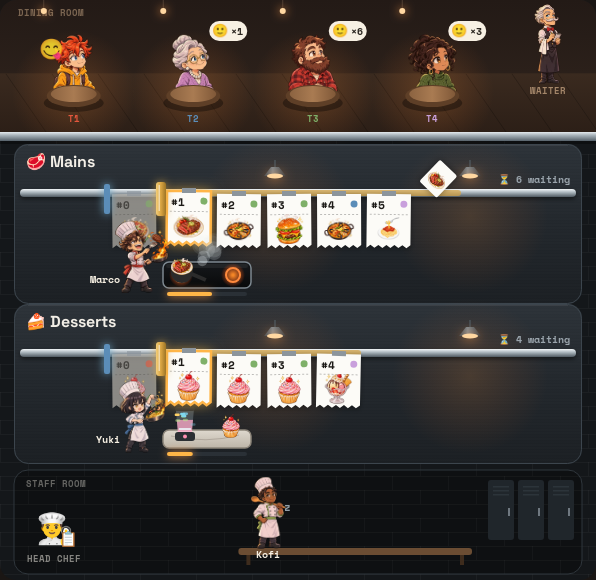
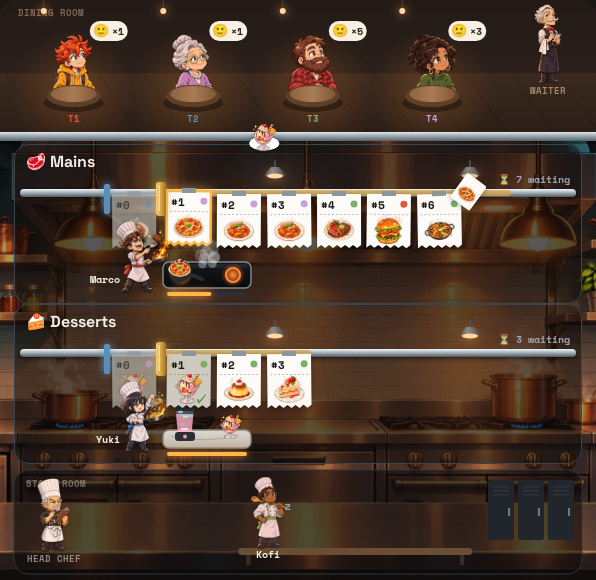
Painted anime kitchen behind the stations
cast/bg/kitchen.webp is drawn (cover-fit, lightly tinted) behind the
stations and staff room, whose panels become smoky glass so the copper
pots and tiles show through; the drawn pendant lamps step aside. Falls
back to the flat look if the image is missing. The first dining-room
image is kept in art/cast-src while a one-chair version is made.

diff --git a/index.html b/index.html
@@ -1623,7 +1623,20 @@ function tiles(base, line) {
   t.moveTo(.5, 0); t.lineTo(.5, 14); t.moveTo(28.5, 14); t.lineTo(28.5, 28); t.stroke();
   return ctx.createPattern(c, 'repeat');
 }
+// painted anime backgrounds (cast/bg/*.webp); the flat drawn look stays as a fallback until they load
+const BG = {};
+for (const n of ['kitchen', 'dining']) { const im = new Image(); im.onload = () => { BG[n] = im }; im.src = `cast/bg/${n}.webp` }
+function drawCover(im, x, y, w, h, ay = .5) {                // like CSS object-fit: cover, anchored at ay vertically
+  const k = Math.max(w / im.naturalWidth, h / im.naturalHeight), iw = im.naturalWidth * k, ih = im.naturalHeight * k;
+  ctx.save(); ctx.beginPath(); ctx.rect(x, y, w, h); ctx.clip();
+  ctx.drawImage(im, x + (w - iw) / 2, y + (h - ih) * ay, iw, ih); ctx.restore();
+}
 function steel(x, y, w, h, r, edge) {
+  if (BG.kitchen) {                                          // over the painted kitchen: a smoky glass panel instead of brushed steel
+    ctx.fillStyle = 'rgba(12,10,9,.52)'; rr(x, y, w, h, r); ctx.fill();
+    ctx.strokeStyle = edge; ctx.lineWidth = 1; rr(x + .5, y + .5, w - 1, h - 1, r); ctx.stroke();
+    return;
+  }
   const g = ctx.createLinearGradient(0, y, 0, y + h);
   g.addColorStop(0, '#2C3238'); g.addColorStop(.5, '#22272C'); g.addColorStop(1, '#1B1F23');
   ctx.fillStyle = g; rr(x, y, w, h, r); ctx.fill();
@@ -1658,6 +1671,10 @@ function draw(rdt) {
   PAT.wall ||= tiles('#14171A', 'rgba(255,255,255,.035)');
   PAT.back ||= tiles('#0E1012', 'rgba(255,255,255,.03)');
   ctx.fillStyle = PAT.wall; rr(0, 0, G.W, G.H, 16); ctx.fill();
+  if (BG.kitchen) {
+    drawCover(BG.kitchen, 0, G.dining.h, G.W, G.H - G.dining.h, .35);
+    ctx.fillStyle = 'rgba(14,11,9,.35)'; ctx.fillRect(0, G.dining.h, G.W, G.H - G.dining.h);
+  }
   // dining room: dark wall, warm floor, a pendant lamp over every table
   let gr = ctx.createLinearGradient(0, 0, 0, G.dining.h);
   gr.addColorStop(0, '#231A16'); gr.addColorStop(.55, '#2B201A'); gr.addColorStop(.56, '#3A2A1F'); gr.addColorStop(1, '#2C1F17');
@@ -1724,7 +1741,7 @@ function draw(rdt) {
     txt(`${st.e} ${st.name}`, G.pad + 12, g.top + 23, `700 16px ${SANS}`, '#F2EEE6');
     g.rails.forEach(y => {
       const x0 = G.clipX + G.TW + 70, x1 = G.railR - 100, n = Math.max(1, Math.floor((x1 - x0) / 150));
-      for (let i = 0; i <= n && x1 > x0; i++) { const lx = x0 + (x1 - x0) * i / n; glowAt(lx, y + 34, 78, .17); lamp(lx, y - 8) }
+      if (!BG.kitchen) for (let i = 0; i <= n && x1 > x0; i++) { const lx = x0 + (x1 - x0) * i / n; glowAt(lx, y + 34, 78, .17); lamp(lx, y - 8) }
     });
     if (X) {
       ctx.font = `700 15px ${SANS}`;
@@ -1748,7 +1765,7 @@ function draw(rdt) {
 
   if (G.staff) {
     const s = G.staff;
-    ctx.fillStyle = PAT.back; ctx.strokeStyle = X ? 'rgba(95,224,208,.45)' : '#2F363C'; ctx.lineWidth = 1;
+    ctx.fillStyle = BG.kitchen ? 'rgba(12,10,9,.58)' : PAT.back; ctx.strokeStyle = X ? 'rgba(95,224,208,.45)' : '#2F363C'; ctx.lineWidth = 1;
     rr(G.pad, s.top, G.W - 2 * G.pad, s.h, 14); ctx.fill(); ctx.stroke();
     txt('STAFF ROOM', G.pad + 12, s.top + 17, `700 9px ${MONO}`, 'rgba(233,229,220,.4)');
     for (let i = 0; i < 3; i++) {
